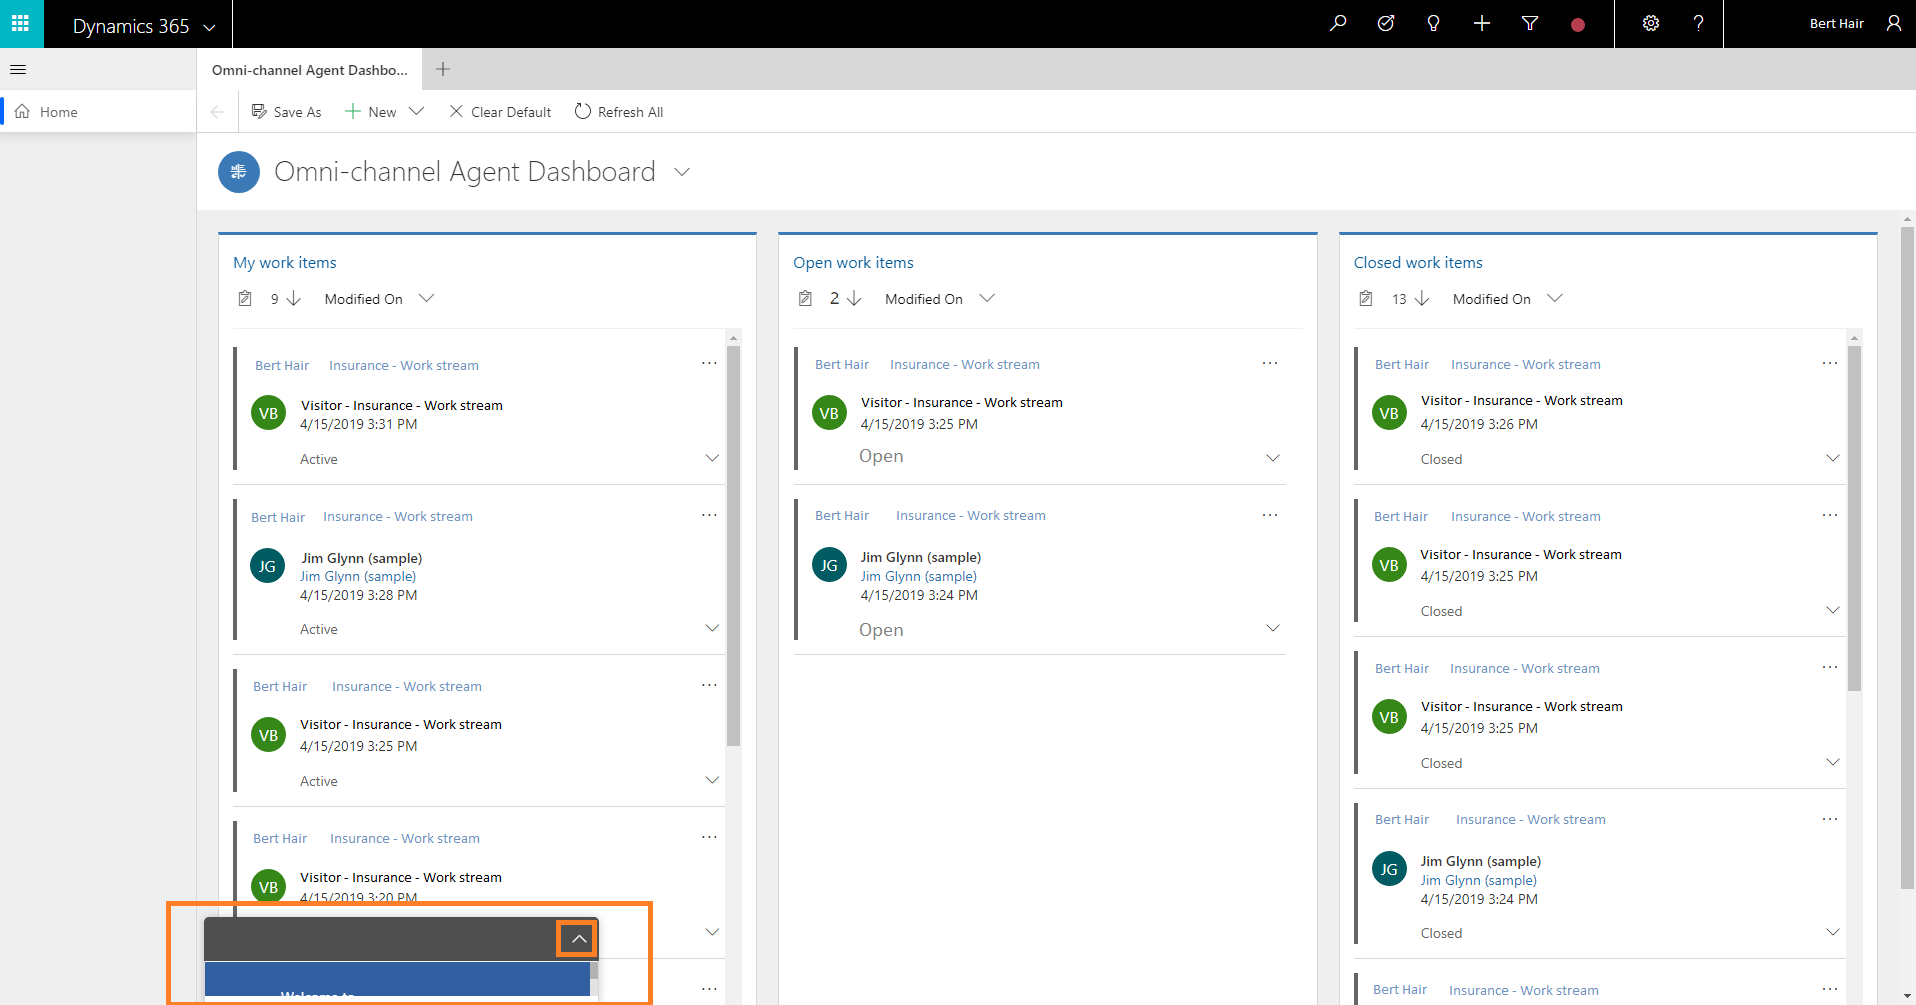
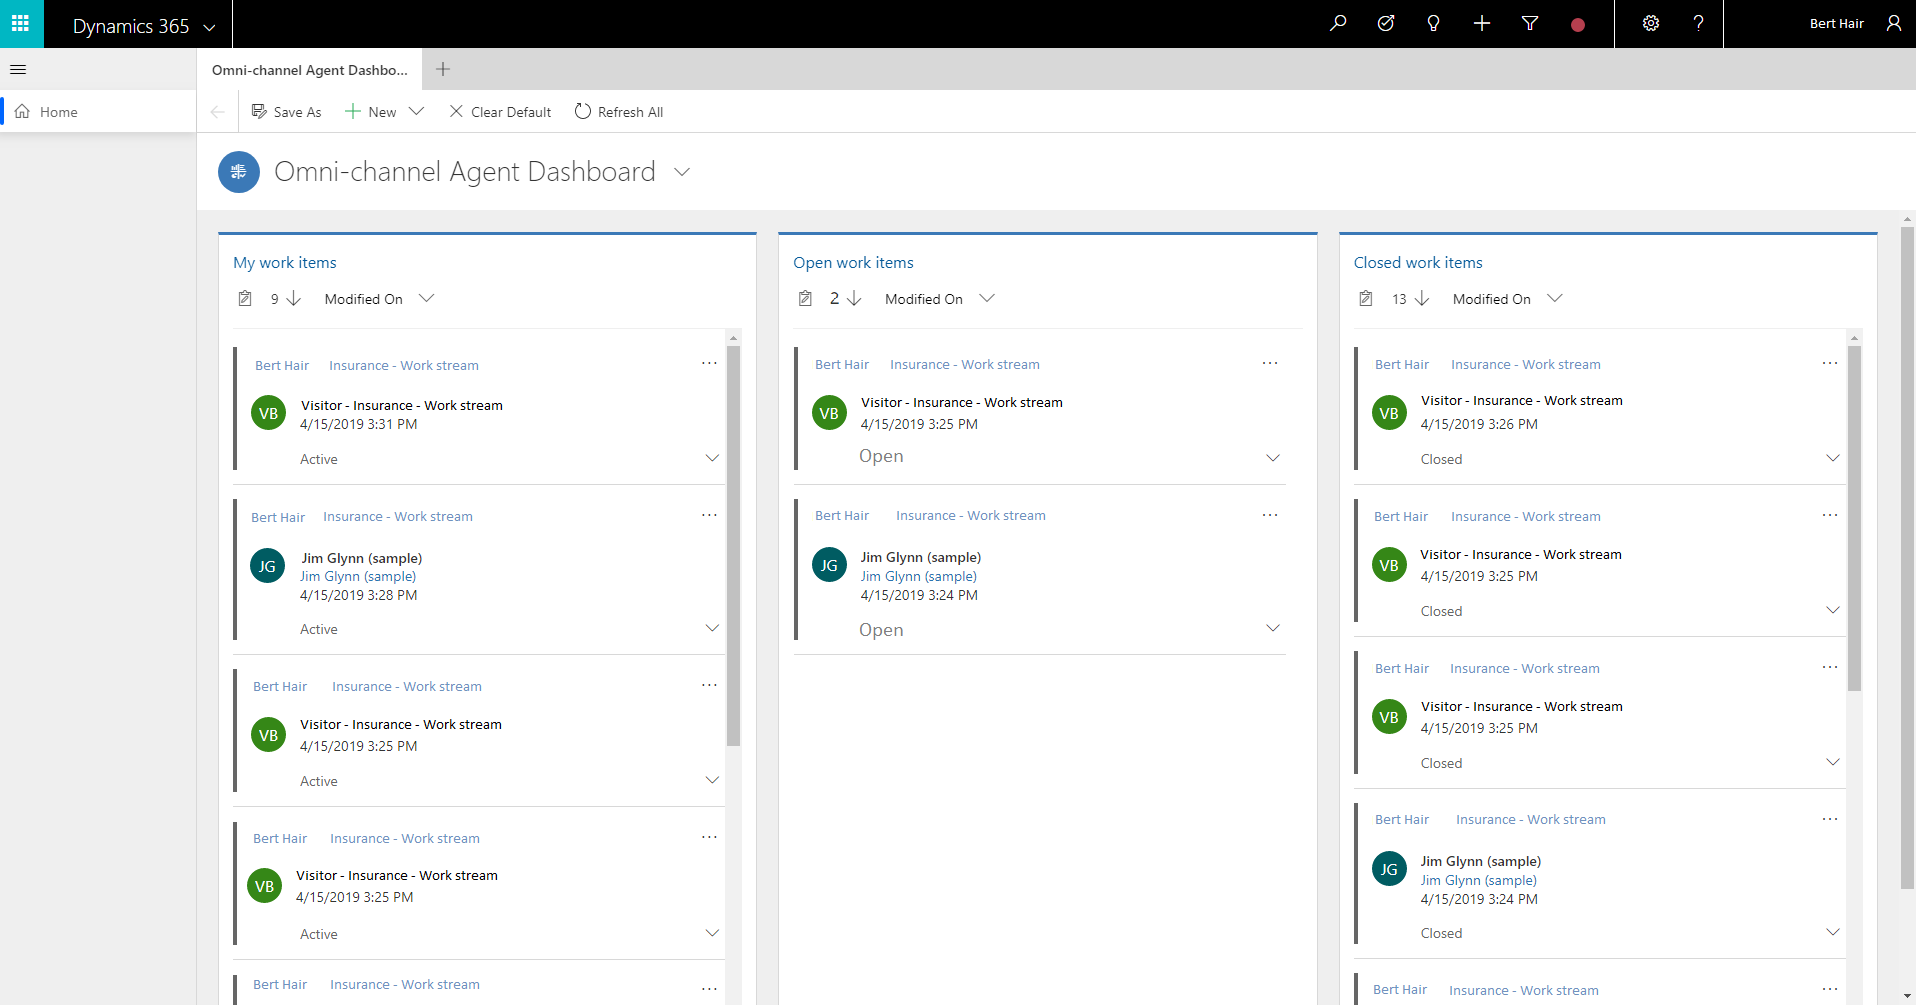
Updating the topic

Changed region(s): [[0.0616, 0.8637, 0.3695, 1.0]]

diff --git a/ce/omni-channel-engagement-hub/agent/agent-oceh/oceh-introduction-agent-interface-omni-channel-engagement-hub-customer-service-hub.md b/ce/omni-channel-engagement-hub/agent/agent-oceh/oceh-introduction-agent-interface-omni-channel-engagement-hub-customer-service-hub.md
@@ -65,15 +65,10 @@ By default, the first two letters of the session title is displayed as the sessi
 
 ## 2. Communication panel
 
-The communication panel is where you, as an agent, interact with your customer. When you sign in to the application, by default, the communication panel is in minimized mode. That is, the minimized communication panel appears at the bottom left side. The landing page explains some of the key features of Omni-channel Engagement Hub and the communication panel. To learn more, see [View communication panel](oceh-conversation-control.md).
+The communication panel is where you, as an agent, interact with your customer. When you sign in to the application, by default, the communication panel is in hidden mode. That is, the communication panel appears on the left side next to the session panel only when you accept an incoming conversation request. To learn more, see [View communication panel](oceh-conversation-control.md).
 
  > [!div class=mx-imgBorder]
  > ![Communication panel in the collapsed mode](../../media/oceh/oceh-agent-interface-communication-panel-collapsed.png "Communication panel in the collapsed mode")
-
-To expand the communication panel, select the arrow on the gray bar of the communication panel. Select the same arrow to again minimize the communication panel.
-
- > [!div class=mx-imgBorder]
- > ![Communication panel in the expanded mode](../../media/oceh/oceh-agent-interface-communication-panel-expanded.png "Communication panel in the expanded mode")
 
 ## 3. Application tab
 
@@ -91,6 +86,8 @@ The sitemap displays the following record types:
     - My work items
     - Open work items
     - Closed work items
+    
+    To learn more, see [View agent dashboard and work items](oceh-omni-channel-agent-dashboard.md).
 
 - **Activities**
 
